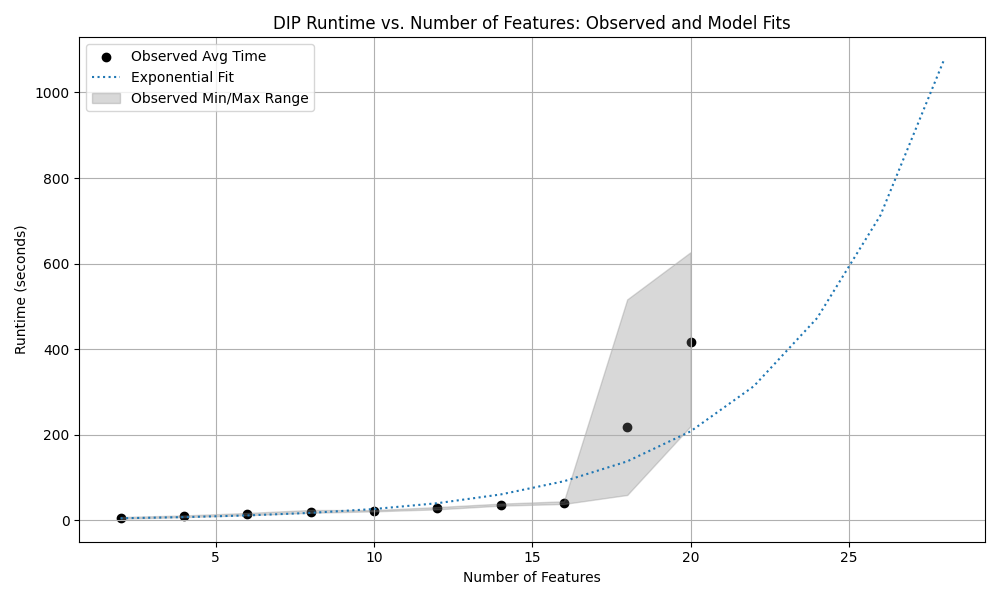
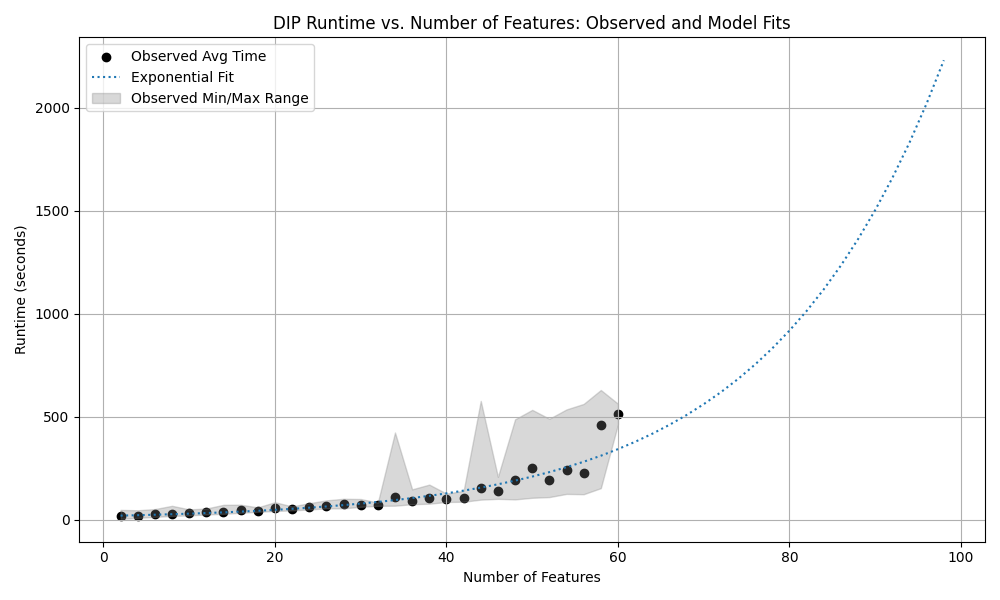
addpend second run

diff --git a/benchmarks/runtime_benchmark.py b/benchmarks/runtime_benchmark.py
@@ -16,8 +16,8 @@ from sklearn.datasets import make_regression
 
 # Constants for dataset generation
 N_SAMPLES = 1000
-N_FEATURES = 60
-N_TRIALS = 10
+N_FEATURES = 100
+N_TRIALS = 5
 N_STEPS = 2
 
 
@@ -44,10 +44,7 @@ def run_trial(k):
 
 def main():
     # Feature counts to test
-    feature_counts = list(range(2, N_FEATURES + 1, N_STEPS))
-    min_times = []
-    avg_times = []
-    max_times = []
+    feature_counts = list(range(50, N_FEATURES + 1, N_STEPS))
     error_occurred = False
 
     print(f"Starting runtime benchmark for k={feature_counts}")
@@ -55,7 +52,7 @@ def main():
 
     # Write all raw results progressively to CSV
     csv_path = "runtime_vs_features.csv"
-    with open(csv_path, mode="w", newline="") as f:
+    with open(csv_path, mode="a", newline="") as f:
         writer = csv.writer(f)
         writer.writerow(["num_features", "trial", "time"])
 
